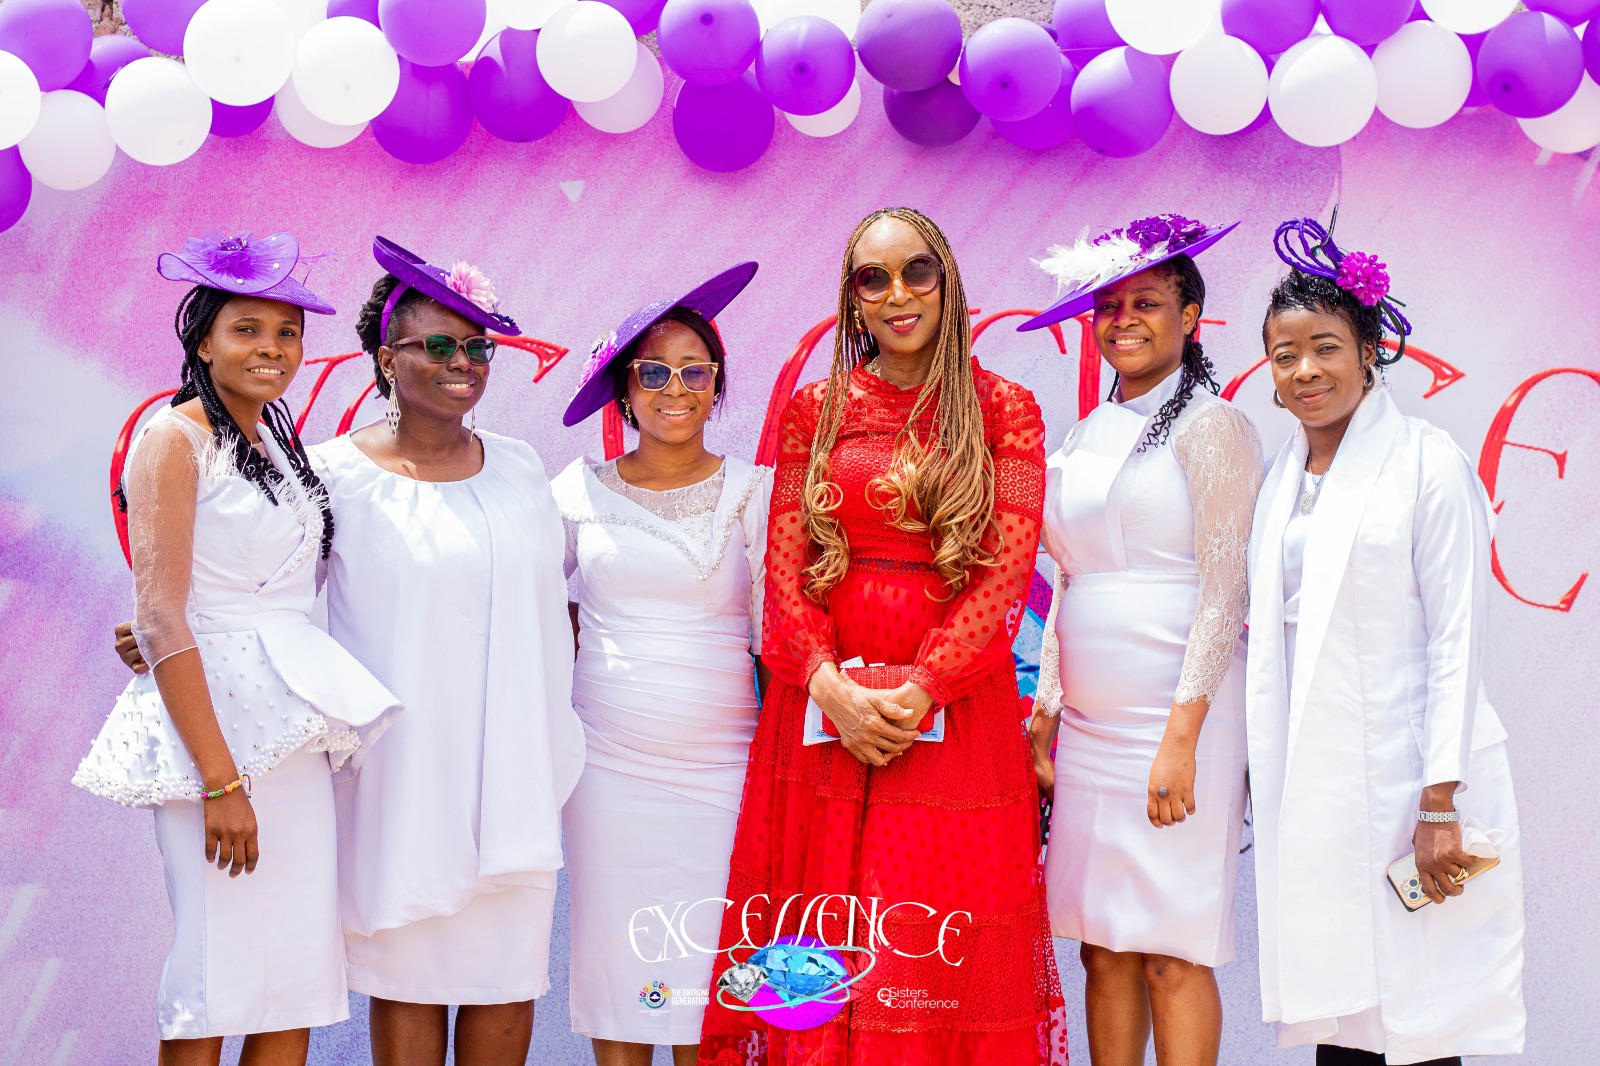
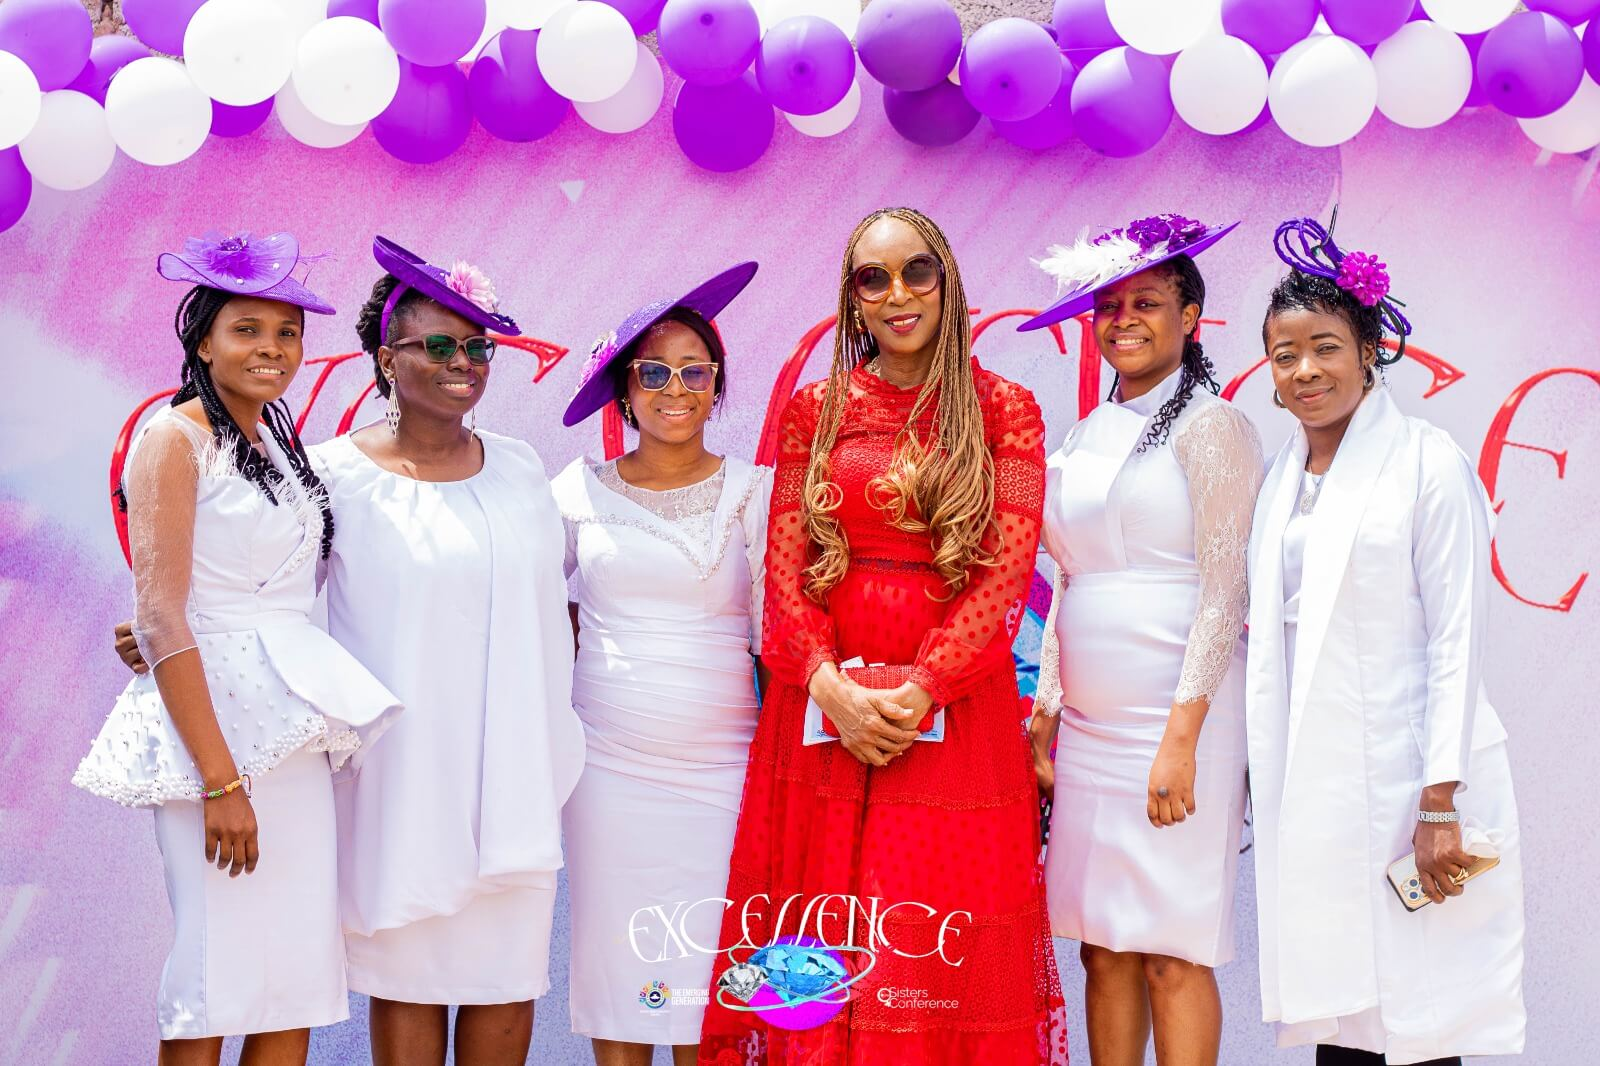
image optimized

diff --git a/src/Components/PhotoBank.jsx b/src/Components/PhotoBank.jsx
@@ -1,85 +1,3 @@
-
-
-
-// Importing images
-
-// import image1 from "../assets/clean.jpg";
-// import image2 from "../assets/team.jpg";
-// import image3 from "../assets/pst.jpg";
-// import image4 from "../assets/rally.jpg";
-// import image5 from "../assets/teeworship.jpeg";
-// import image6 from "../assets/guys.jpg";
-// import image7 from "../assets/pfi.jpeg";
-// import image8 from "../assets/firstlady.jpg";
-// import image9 from "../assets/pdi.jpg";
-// import image10 from "../assets/daraa.jpeg";
-// import image11 from "../assets/levites.jpg";
-// import image12 from "../assets/cake.jpg";
-// import image13 from "../assets/dancing.jpg";
-// import image14 from "../assets/yellow.jpg";
-// import image15 from "../assets/food.jpg";
-
-
-
-
-
-// const PhotoBank = () => {
-//   // State to manage visibility of additional photos
-//   const [showMore, setShowMore] = useState(false);
-
-//   // Array of photo objects
-//   const photos = [
-//     { id: 1, src: image1 },
-//     { id: 2, src: image2 },
-//     { id: 3, src: image3 },
-//     { id: 4, src: image4 },
-//     { id: 5, src: image5 },
-//     { id: 6, src: image6 },
-//     { id: 7, src: image7 },
-//     { id: 8, src: image8},
-//     { id: 9, src: image9 },
-//     { id: 10, src: image10 },
-//     { id: 11, src: image11 },
-//     { id: 12, src: image12 },
-//     { id: 13, src: image13 },
-//     { id: 14, src: image14 },
-//     { id: 15, src: image15 },
-//     // { id: 16, src: image16 },
-//     // { id: 17, src: image17 },
-//     // { id: 18, src: image18 },
-//   ];
-
-//   // Determine which photos to display
-//   const visiblePhotos = showMore ? photos : photos.slice(0, 9);
-
-//   return (
-//     <div className="w-full mx-auto mt-16">
-//       <h2 className="text-4xl mb-12 font-semibold text-center">Our Photo Bank</h2>
-
-//     <div className="bg-[#F2EFEA]">
-//       <div className="grid grid-cols-3 gap-6 px-4 lg:px-16">
-//         {visiblePhotos.map((photo) => (
-//           <div key={photo.id} className="bg-cover bg-center rounded-[12px] h-[300px]" style={{ backgroundImage: `url(${photo.src})` }} />
-//         ))}
-//       </div>
-//     </div>
-//     <div className="flex justify-center mt-8">
-//         <button
-//           onClick={() => setShowMore((prev) => !prev)}
-//           className="px-8 py-3 bg-[#462F77] text-white rounded-[12px] text-[16px] font-medium"
-//         >
-//           {showMore ? "Show Less Photos" : "Show More Photos"}
-//         </button>
-//       </div>
-
-      
-//     </div>
-//   );
-// };
-
-// export default PhotoBank;
-
-
 import React, { useState } from "react";
 import { LazyLoadImage } from "react-lazy-load-image-component";
 import "react-lazy-load-image-component/src/effects/blur.css";
@@ -87,16 +5,16 @@ import "react-lazy-load-image-component/src/effects/blur.css";
 import image1 from "../assets/clean.jpg";
 import image2 from "../assets/team.jpg";
 import image3 from "../assets/pst.jpg";
-import image4 from "../assets/rally.jpg";
-import image5 from "../assets/teeworship.jpeg";
+import image4 from "../assets/rally.webp";
+import image5 from "../assets/teeworship.webp";
 import image6 from "../assets/guys.jpg";
-import image7 from "../assets/pfi.jpeg";
-import image8 from "../assets/firstlady.jpg";
-import image9 from "../assets/pdi.jpg";
-import image10 from "../assets/daraa.jpeg";
+import image7 from "../assets/pfi.webp";
+import image8 from "../assets/firstlady.webp";
+import image9 from "../assets/pdi.webp";
+import image10 from "../assets/daraa.webp";
 import image11 from "../assets/levites.jpg";
 import image12 from "../assets/cake.jpg";
-import image13 from "../assets/dancing.jpg";
+import image13 from "../assets/dancing.webp";
 import image14 from "../assets/yellow.jpg";
 import image15 from "../assets/food.jpg";
 

diff --git a/src/Components/OppCarousel.jsx b/src/Components/OppCarousel.jsx
@@ -58,8 +58,8 @@ import React from "react";
 
 import image from "../assets/yellow.jpg";
 import image2 from "../assets/levites.jpg";
-import image3 from "../assets/rally.jpg";
-import image4 from "../assets/firstlady.jpg";
+import image3 from "../assets/rally.webp";
+import image4 from "../assets/firstlady.webp";
 
 const items = [
   { id: 1, content: image, bgColor: "rounded-[50px]" },

diff --git a/src/Components/Carousel.jsx b/src/Components/Carousel.jsx
@@ -67,9 +67,9 @@
 
 import React from "react";
 
-import image from "../assets/pdi.jpg";
-import image2 from "../assets/teeworship.jpeg";
-import image3 from "../assets/pst.jpg";
+import image from "../assets/pdi.webp";
+import image2 from "../assets/pst.jpg" ;
+import image3 from "../assets/teeworship.webp";
 import image4 from "../assets/team.jpg";
 
 const items = [
